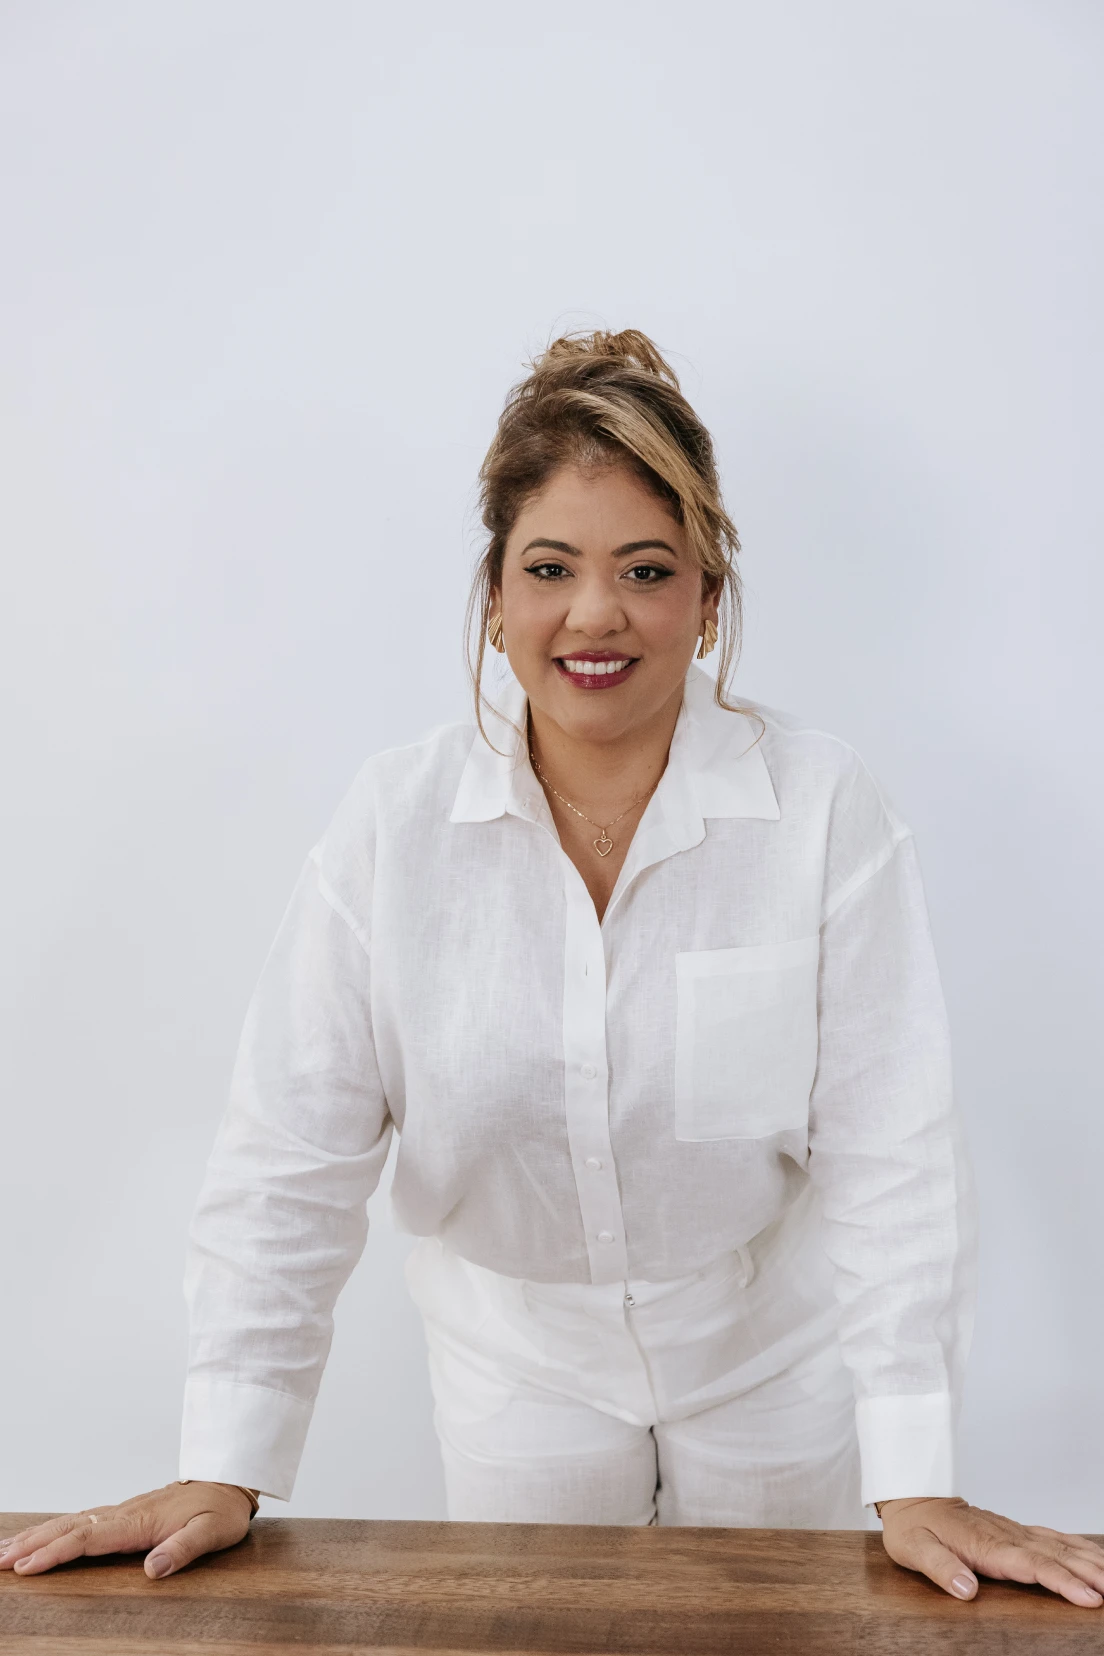
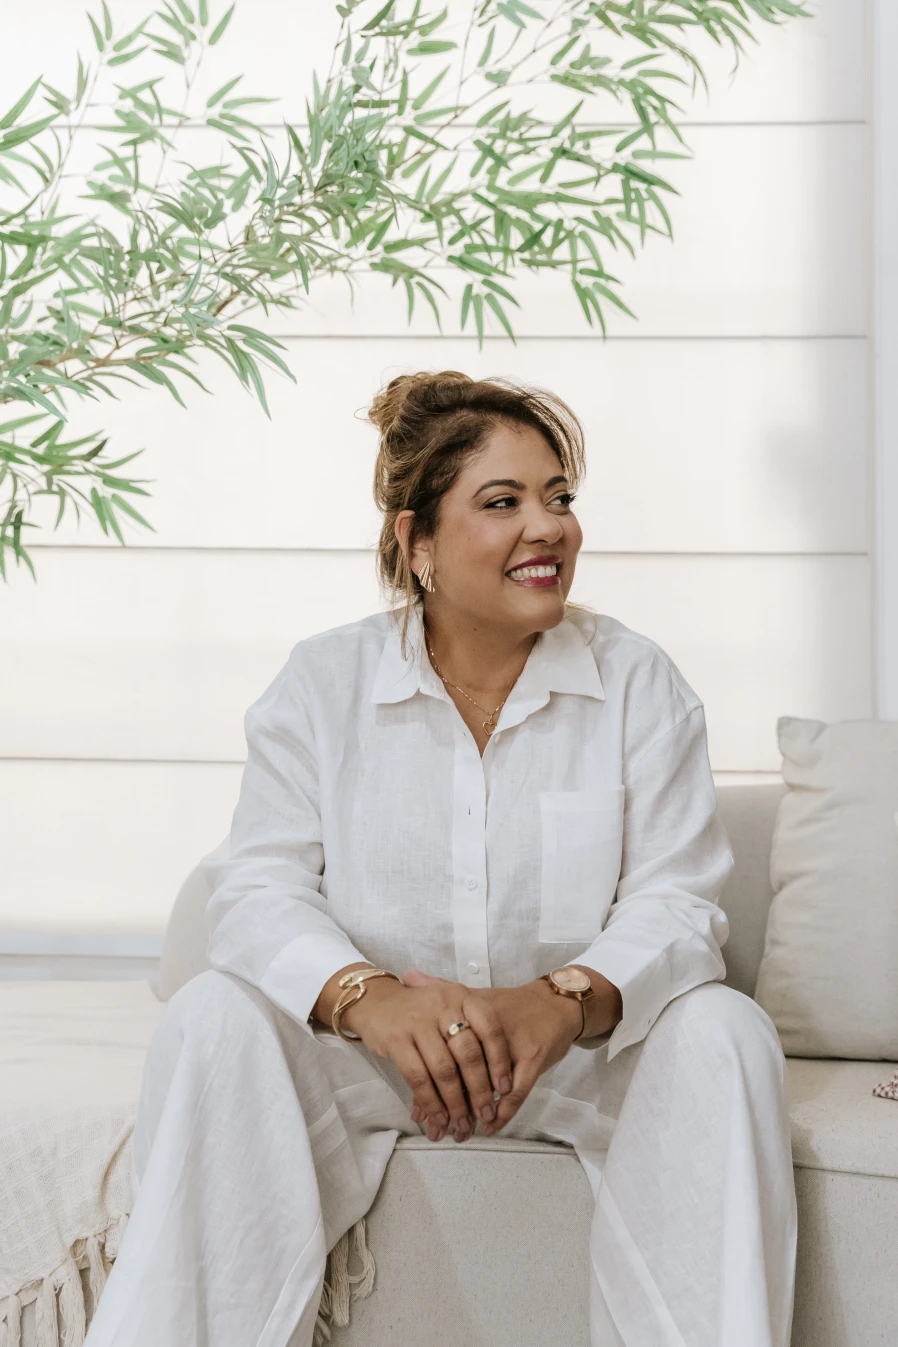
Ajustes pontuais

diff --git a/index.html b/index.html
@@ -2645,7 +2645,7 @@ footer {
     <div class="services-layout rg-stagger">
       <article class="service-card-featured">
         <div class="service-featured-img">
-          <img src="Case - ÉLIDE E ROBERTO/Obra Élide.webp" alt="Apartamento reformado com cozinha integrada e acabamento em madeira" loading="lazy" onerror="this.src='Case - BELLE E BRUNO/WhatsApp Image 2026-01-23 at 10.34.51 (1).webp'">
+          <img src="reforma-residencial-fachada.jpg" alt="Fachada de casa renovada pela Rigal Engenharia" loading="lazy" onerror="this.src='Case - BELLE E BRUNO/WhatsApp Image 2026-01-23 at 10.34.51 (1).webp'">
         </div>
         <div class="service-featured-body">
           <div class="service-heading">
@@ -2919,7 +2919,7 @@ footer {
     <div class="portfolio-grid rg-stagger rg-portfolio-stagger">
 
       <div class="portfolio-card" data-case="belle-bruno" data-case-start="0" role="button" tabindex="0" aria-label="Abrir galeria: Belle &amp; Bruno">
-        <img src="Case - BELLE E BRUNO/WhatsApp Image 2026-01-23 at 10.34.56.webp" alt="Case Belle e Bruno" loading="lazy" onerror="this.src='Case - BELLE E BRUNO/WhatsApp Image 2026-01-23 at 10.34.46.webp'">
+        <img src="Case - BELLE E BRUNO/WhatsApp Image 2026-01-23 at 10.34.57.webp" alt="Case Belle e Bruno" loading="lazy" onerror="this.src='Case - BELLE E BRUNO/WhatsApp Image 2026-01-23 at 10.34.46.webp'">
         <div class="portfolio-card-expand" aria-hidden="true">
           <svg viewBox="0 0 24 24" fill="none" stroke="currentColor" stroke-width="1.75" stroke-linecap="round"><path d="M15 3h6v6M9 21H3v-6M21 3l-7 7M3 21l7-7"/></svg>
         </div>
@@ -2928,20 +2928,6 @@ footer {
           <div class="portfolio-tags">
             <span class="portfolio-tag">Reforma Residencial</span>
             <span class="portfolio-tag">SJC</span>
-          </div>
-        </div>
-      </div>
-
-      <div class="portfolio-card" data-case="belle-bruno" data-case-start="5" role="button" tabindex="0" aria-label="Abrir galeria: Belle &amp; Bruno — Detalhe">
-        <img src="Case - BELLE E BRUNO/WhatsApp Image 2026-01-23 at 10.34.51.webp" alt="Reforma interior" loading="lazy">
-        <div class="portfolio-card-expand" aria-hidden="true">
-          <svg viewBox="0 0 24 24" fill="none" stroke="currentColor" stroke-width="1.75" stroke-linecap="round"><path d="M15 3h6v6M9 21H3v-6M21 3l-7 7M3 21l7-7"/></svg>
-        </div>
-        <div class="portfolio-card-label">
-          <p class="portfolio-case-name">Belle &amp; Bruno — Detalhe</p>
-          <div class="portfolio-tags">
-            <span class="portfolio-tag">Acabamento</span>
-            <span class="portfolio-tag">Interior</span>
           </div>
         </div>
       </div>
@@ -2956,20 +2942,6 @@ footer {
           <div class="portfolio-tags">
             <span class="portfolio-tag">Reforma Comercial</span>
             <span class="portfolio-tag">SJC</span>
-          </div>
-        </div>
-      </div>
-
-      <div class="portfolio-card" data-case="ideal-lentes" data-case-start="10" role="button" tabindex="0" aria-label="Abrir galeria: Ideal Lentes — Acabamento">
-        <img src="Case - IDEAL LENTES/WhatsApp Image 2026-01-23 at 10.03.12.webp" alt="Ideal Lentes acabamento" loading="lazy">
-        <div class="portfolio-card-expand" aria-hidden="true">
-          <svg viewBox="0 0 24 24" fill="none" stroke="currentColor" stroke-width="1.75" stroke-linecap="round"><path d="M15 3h6v6M9 21H3v-6M21 3l-7 7M3 21l7-7"/></svg>
-        </div>
-        <div class="portfolio-card-label">
-          <p class="portfolio-case-name">Ideal Lentes — Acabamento</p>
-          <div class="portfolio-tags">
-            <span class="portfolio-tag">Revestimento</span>
-            <span class="portfolio-tag">Comercial</span>
           </div>
         </div>
       </div>
@@ -3320,7 +3292,7 @@ document.addEventListener('click', e => {
 
 // ─── Hero BG fallback ─────────────────────────────────────
 const heroBgFallbacks = [
-  'Case - BELLE E BRUNO/WhatsApp Image 2026-01-23 at 10.34.56.webp',
+  'Case - BELLE E BRUNO/WhatsApp Image 2026-01-23 at 10.34.57.webp',
   'Case - ÉLIDE E ROBERTO/Elide 12.webp',
   'Case - IDEAL LENTES/WhatsApp Image 2026-01-23 at 10.03.08.webp',
 ];
@@ -3456,7 +3428,7 @@ if (!prefersReduced) {
       tags: ['Reforma Residencial', 'SJC'],
       folder: 'Case - BELLE E BRUNO',
       images: [
-        'WhatsApp Image 2026-01-23 at 10.34.56.webp',
+        'WhatsApp Image 2026-01-23 at 10.34.57.webp',
         'WhatsApp Image 2026-01-23 at 10.34.46.webp',
         'WhatsApp Image 2026-01-23 at 10.34.46 (1).webp',
         'WhatsApp Image 2026-01-23 at 10.34.47.webp',
@@ -3471,7 +3443,7 @@ if (!prefersReduced) {
         'WhatsApp Image 2026-01-23 at 10.34.56 (1).webp',
         'WhatsApp Image 2026-01-23 at 10.34.56 (2).webp',
         'WhatsApp Image 2026-01-23 at 10.34.56 (3).webp',
-        'WhatsApp Image 2026-01-23 at 10.34.57.webp',
+        'WhatsApp Image 2026-01-23 at 10.34.56.webp',
         'WhatsApp Image 2026-01-23 at 10.34.57 (1).webp',
       ]
     },
